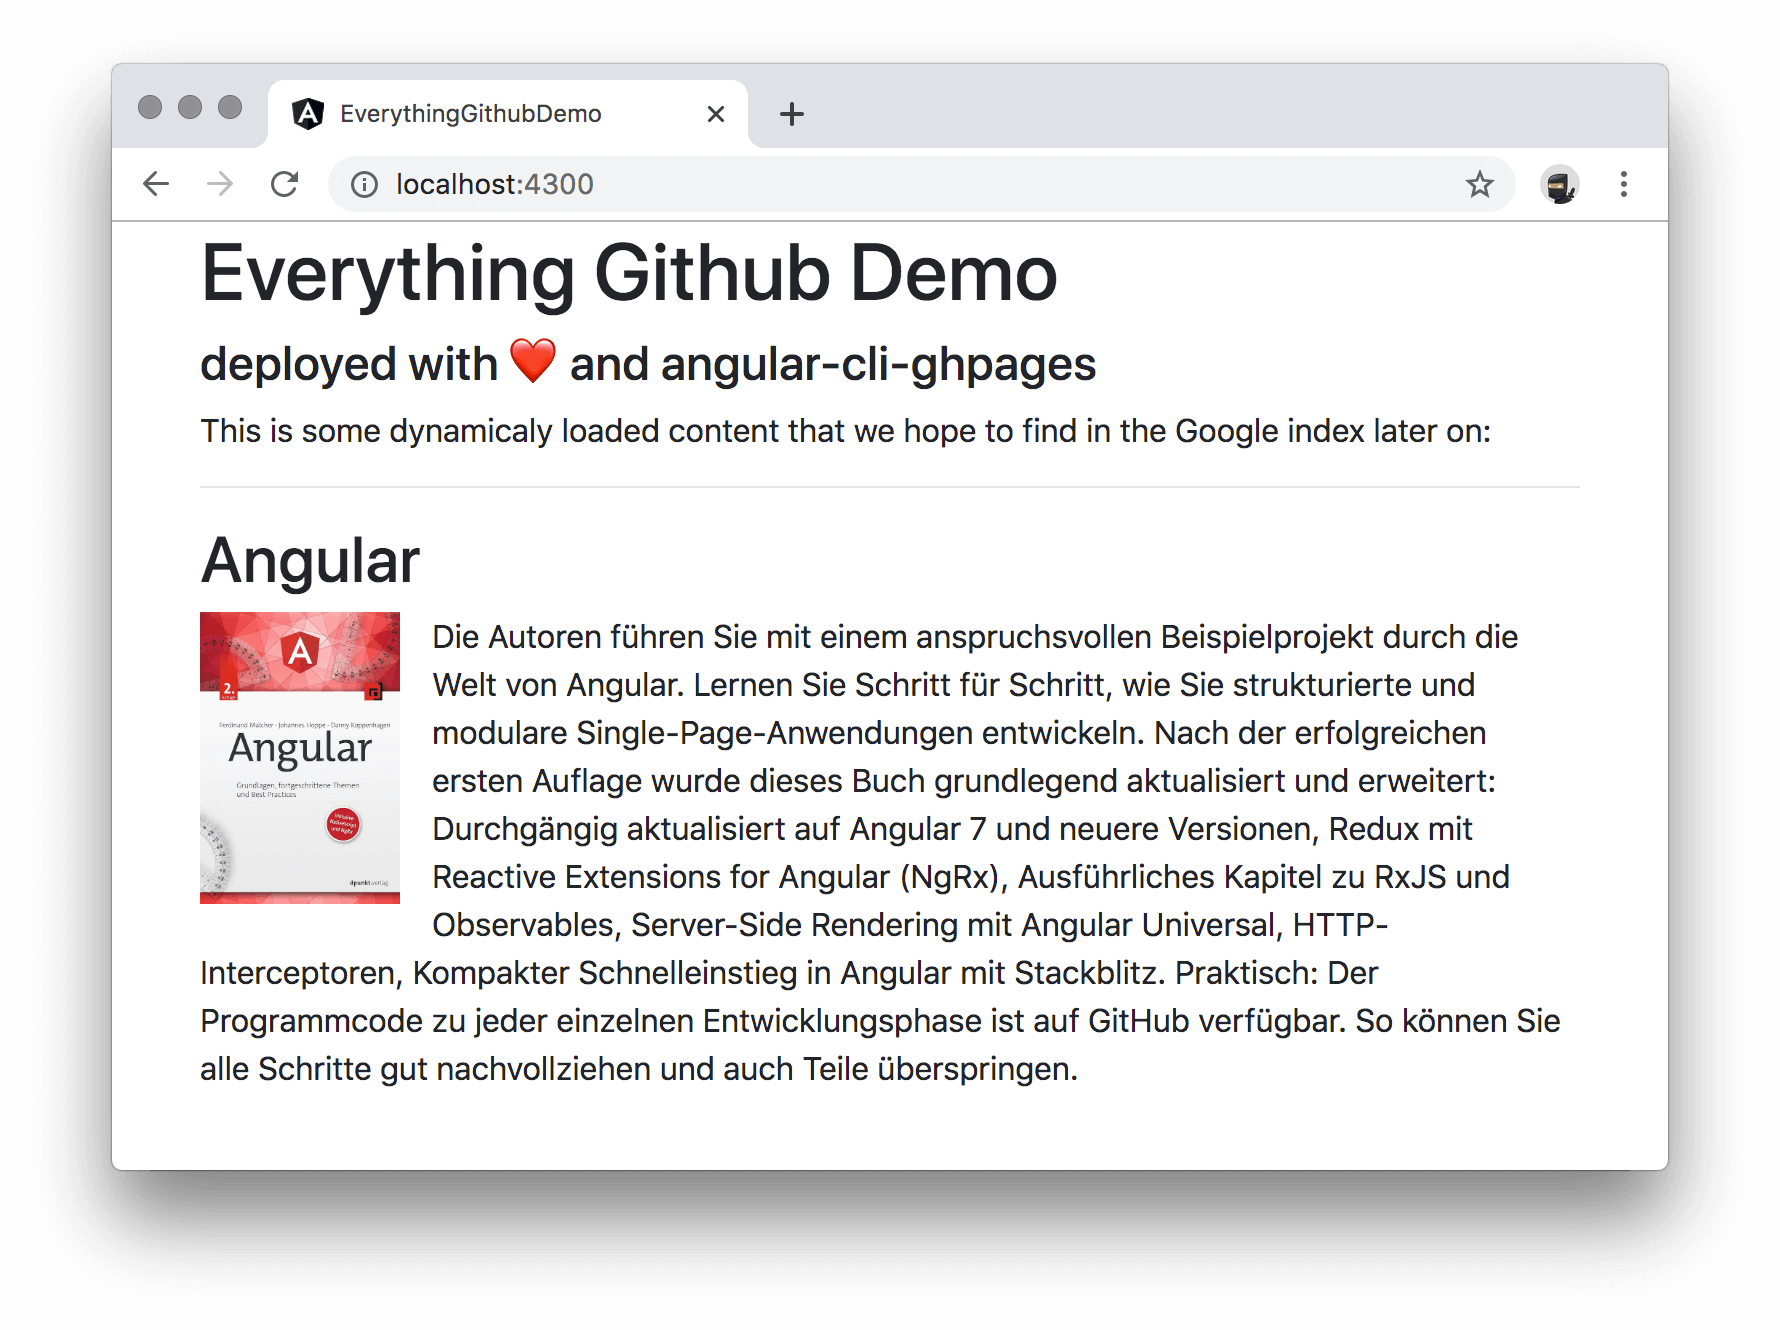
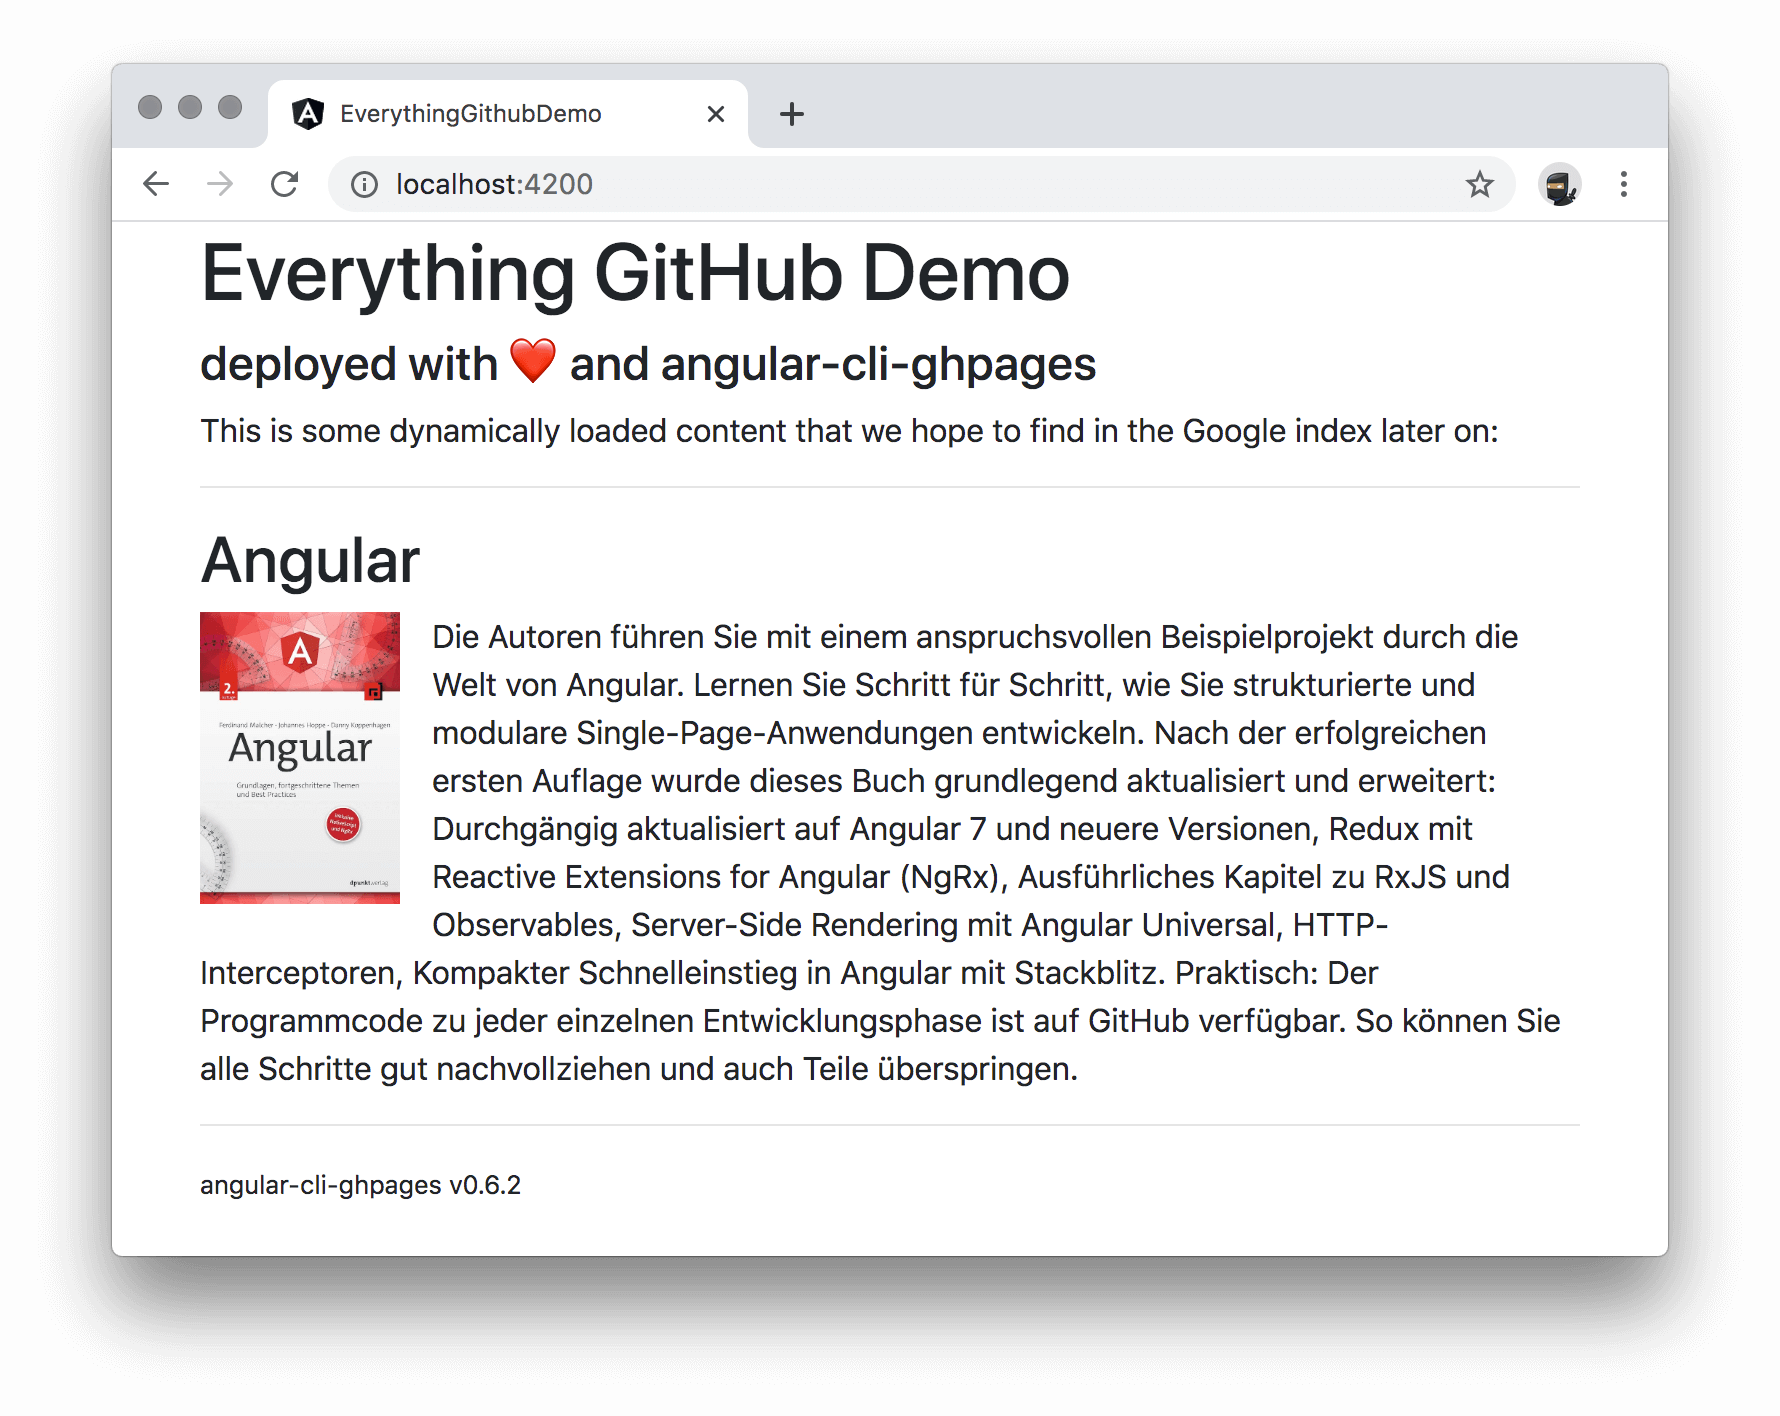
everything-github: typos

Changed region(s): [[0.0618, 0.3699, 0.927, 0.894], [0.0618, 0.0308, 0.8343, 0.3391], [0.4326, 0.0925, 0.927, 0.1541]]

diff --git a/blog/2020-01-everything-github/README.md b/blog/2020-01-everything-github/README.md
@@ -1,5 +1,5 @@
 ---
-title: "Everything Github: Continues Integration, Deployment and Hosting for your Angular App"
+title: "Everything GitHub: Continues Integration, Deployment and Hosting for your Angular App"
 author: Johannes Hoppe
 mail: johannes.hoppe@haushoppe-its.de
 bio: "Johannes is one of the two founders of the Angular.Schule and the main developer of angular-cli-ghpages. Recently he has been recognized as a Google Developer Expert (GDE)."
@@ -15,14 +15,14 @@ keywords:
   - ng deploy
   - ng-deploy
   - angular-cli-ghpages
-  - Github
-  - Github Actions
+  - GitHub
+  - GitHub Actions
 language: en
 thumbnail: everything-github.png
 hidden: true
 ---
 
-**In this article we want to use several tools from the Github universe to launch a website with Angular.
+**In this article we want to use several tools from the GitHub universe to launch a website with Angular.
 We will establish a professional pipeline, including version management, continuous deployment and web hosting.
 Best of all, for public repositories, this won't cost you a single cent!**
 
@@ -32,19 +32,19 @@ Table of contents:
 
 - [Introduction](#introduction)
 - [1. All parts explained](#1-all-parts-explained)
-  - [1.1. Git and Github Version Control](#11-git-and-github-version-control)
-  - [1.2. Github Actions](#12-github-actions)
-  - [1.3. Github Pages](#13-github-pages)
+  - [1.1. Git and GitHub Version Control](#11-git-and-github-version-control)
+  - [1.2. GitHub Actions](#12-github-actions)
+  - [1.3. GitHub Pages](#13-github-pages)
   - [1.4. angular-cli-ghpages](#14-angular-cli-ghpages)
   - [1.5. GitHub plans](#15-github-plans)
 - [2. A simple Angular app](#2-a-simple-angular-app)
-- [3. Hosting the source code on Github](#3-hosting-the-source-code-on-github)
+- [3. Hosting the source code on GitHub](#3-hosting-the-source-code-on-github)
 - [4. A first deployment to GitHub Pages](#4-a-first-deployment-to-github-pages)
 - [5. Automating the Deployment with GitHub Actions](#5-automating-the-deployment-with-github-actions)
   - [5.1 About all tokens](#51-about-all-tokens)
   - [5.2 Automate a public repo (via GH_TOKEN)](#52-automate-a-public-repo-via-ghtoken)
     - [5.2.1 Setup a Personal Access Token](#521-setup-a-personal-access-token)
-    - [5.2.2 Setup the Github Action Workflow](#522-setup-the-github-action-workflow)
+    - [5.2.2 Setup the GitHub Action Workflow](#522-setup-the-github-action-workflow)
   - [5.3 Automate a private repo (via GITHUB_TOKEN)](#53-automate-a-private-repo-via-githubtoken)
 - [6. Extra: Custom Domains](#6-extra-custom-domains)
   - [6.1 Configuring a subdomain](#61-configuring-a-subdomain)
@@ -54,27 +54,27 @@ Table of contents:
 ## Introduction
 
 All starts are hard, so we will try to explain all steps in detail, so that you can eventually come up with a fully deployed Angular app.
-During our journey we will get comfortable with `angular-cli-ghpages` and Github Actions, and see how they work togehter.
-We will create & setup tokens and Github Action YAML files, to deploy our Angular app directly to Github Pages, a free webhosting service from Github.
+During our journey we will get comfortable with `angular-cli-ghpages` and GitHub Actions, and see how they work together.
+We will create & setup tokens and GitHub Action YAML files, to deploy our Angular app directly to GitHub Pages, a free webhosting service from GitHub.
 
 
 ## 1. All parts explained
 
-### 1.1. Git and Github Version Control
+### 1.1. Git and GitHub Version Control
 
 Version Control allows you to keep track of your work and helps you to easily recognize the changes you have made, whether it is program code, text, images or other data.
 It is also absolutely necessary if you want to work together efficiently in a team.
 [Git](https://git-scm.com/) is a free software for distributed version management and is currently the most popular solution.
-The leading platform around Git is Github, which belongs to Microsoft since the end of 2018.
+The leading platform around Git is GitHub, which belongs to Microsoft since the end of 2018.
 
-### 1.2. Github Actions
+### 1.2. GitHub Actions
 
-[Github Actions](https://github.com/features/actions) is a solution for CI/CD pipelines (continuous integration and continuous delivery).
-With actions we can test, build and release our code and while staying in the Github ecosystem.
-Github has just recently launched this product to the market and is now directly competing with Travis CI, CircleCI or AppVeyor.
+[GitHub Actions](https://github.com/features/actions) is a solution for CI/CD pipelines (continuous integration and continuous delivery).
+With actions we can test, build and release our code and while staying in the GitHub ecosystem.
+GitHub has just recently launched this product to the market and is now directly competing with Travis CI, CircleCI or AppVeyor.
 In contrast to former CI/CD monsters it is common with all mentioned providers to express the individual steps in the form of a YAML file and to store this file as part of the source code in the repository.
     
-### 1.3. Github Pages
+### 1.3. GitHub Pages
 
 You can use [GitHub Pages](https://pages.github.com/) to host a website directly from a GitHub repository.
 This website can either contain completely static content (i.e. pure HTML files and assets, but no scripts running on the server) or you can use Jekyll to convert Markdown files to static content.
@@ -84,10 +84,10 @@ A good companion is the static site generator [Scully](https://github.com/scully
 ### 1.4. angular-cli-ghpages
 
 [angular-cli-ghpages](https://github.com/angular-schule/angular-cli-ghpages) is a project made by Johannes Hoppe, one of the two authors of this article.
-His Angular Book uses a new Github repository in every chapter (so there are quite a lot of repos 😅).
-So he developed a solution that makes it as easy as possible to bring an Angular App to Github Pages.
+His Angular Book uses a new GitHub repository in every chapter (so there are quite a lot of repos 😅).
+So he developed a solution that makes it as easy as possible to bring an Angular App to GitHub Pages.
 The project exists since 2016 and if it was started today, it would certainly have a nicer name.
-According to Github, 7000 projects already deploying with angular-cli-ghpages.
+According to GitHub, 7000 projects already deploying with angular-cli-ghpages.
 
 ### 1.5. GitHub plans
 
@@ -195,11 +195,11 @@ We assume that the majority of our readers have already worked with Angular. But
     ```html
     <!-- src/app/app.component.html -->
   
-    <h1>Everything Github Demo</h1>
+    <h1>Everything GitHub Demo</h1>
     <h4>deployed with ❤ and angular-cli-ghpages</h4>
   
     <p>
-    This is some dynamicaly loaded content that we hope to find in the Google index later on:
+    This is some dynamically loaded content that we hope to find in the Google index later on:
     </p>
   
     <hr>
@@ -217,7 +217,7 @@ We assume that the majority of our readers have already worked with Angular. But
 
 
 
-## 3. Hosting the source code on Github
+## 3. Hosting the source code on GitHub
 
 Now we take care of version management.
 This is very easy because the Angular CLI has already created a local Git repository for us. 
@@ -242,14 +242,14 @@ This is very easy because the Angular CLI has already created a local Git reposi
   
     <!-- > There's one naughty little trick to work around that limitation, but we'll talk about that later on. -->
 
-5. Since we already have source code, you should **not** initialize the repository with a a README.
+5. Since we already have source code, you should **not** initialize the repository with a README.
 
     ![Screenshot](screenshot_3_repo-public.png)
 
 6. After you have pressed "Create Repository" a confirmation page will appear.
     You can now connect to GitHub using SSH or HTTPS.
     Both ways will work, but GitHub recommends [HTTPS](https://help.github.com/en/github/using-git/which-remote-url-should-i-use).
-    If you are completely lost in authenticating against GitHub, try cloning another repository with [Github Desktop](https://desktop.github.com/) first.
+    If you are completely lost in authenticating against GitHub, try cloning another repository with [GitHub Desktop](https://desktop.github.com/) first.
     For the remaining article we assume that the communication has been successful established.
 
     To add a new remote for GitHub, use the `git remote add` command:
@@ -261,7 +261,7 @@ This is very easy because the Angular CLI has already created a local Git reposi
     Replace `<username>` (or organisation name) and `<repositoryname>` with your username from GitHub and the name of your new repository.
     <small>(In our example, it's `git remote add origin https://github.com/angular-schule/everything-github-demo.git`)</small>
 
-7. Finally we can transfer the whole repository to GitHub:
+7. Finally, we can transfer the whole repository to GitHub:
 
   ```sh
   git push -u origin master
@@ -321,7 +321,7 @@ GitHub will activate the hosting automatically, if this branch has the name `gh-
     **Hint:** Please make sure that you are really adding the trailing the slash.
     If you forget it, it won't work!
 
-5. And now you should see our app running on Github Pages!
+5. And now you should see our app running on GitHub Pages!
     You can make sure that everything went well when you go into the **Settings** of the repo.
     Scroll down there to the GitHub Pages section.
     The following should appear here:
@@ -344,7 +344,7 @@ GitHub will activate the hosting automatically, if this branch has the name `gh-
 But we don't want to stop here and trigger the deployment manually all the time.
 We want to make changes to the app and the deployment should be handled automatically for us.
 For this we want to use GitHub Actions.
-GitHub Actions is now available for all repsitories.
+GitHub Actions is now available for all repositories.
 So there is no need to register anymore, we can start right now! 🚀
 
 As with all CI/CD systems, we have to think about how to grant the necessary write permissions to our repo.
@@ -354,12 +354,12 @@ As with all CI/CD systems, we have to think about how to grant the necessary wri
 
 The easiest way to grant access to the repository is to implement this with tokens.
 Tokens can be used instead of a password for Git over HTTPS (*this is what we want to do*),
-or can be used to authenticate to the Github API (*angular-cli-ghpages is right now not using the Github API at all*).
+or can be used to authenticate to the GitHub API (*angular-cli-ghpages is right now not using the GitHub API at all*).
 
 > **⚠ Warning:** Treat tokens like passwords and keep them secret. Always use tokens as environment variables instead of hardcoding them into your code!
 
 
-At Github there are several types of tokens, which we have to carefully distinguish.
+At GitHub there are several types of tokens, which we have to carefully distinguish.
 The following two are relevant for us:
 
 * **`GH_TOKEN` / Personal access token** – As the name suggests, personal access tokens grant rights that a particular user has.
@@ -422,13 +422,13 @@ If you want to remember the token later on, save it in a secure place only (i.e.
     Please make sure that it has this access:
    ![repo access](./screenshot_5_repo-access.png)
 
-2. Open up your Angular app's Github repo.
+2. Open up your Angular app's GitHub repo.
 
 3. Go to **Settings** > **Secrets** and click on **Add a new secret**.
 
     ![add new secret](./screenshot_5_add-new-secret.png)
 
-    Secrets are encrypted environment variables and only exposed to selected Github Actions.
+    Secrets are encrypted environment variables and only exposed to selected GitHub Actions.
     GitHub automatically redacts secrets printed to the log, but you should avoid printing secrets to the log intentionally.
 
 4. Create a secret with name `GH_TOKEN` and paste your token (which you copied in step 1) in value.
@@ -440,7 +440,7 @@ If you want to remember the token later on, save it in a secure place only (i.e.
     It is perfectly fine not to store the token anywhere else.
     You can always create new tokens and just throw the old ones away.
 
-#### 5.2.2 Setup the Github Action Workflow
+#### 5.2.2 Setup the GitHub Action Workflow
 
 Now we have everything ready.
 We can create an automated workflow that will do the work for us in the future.
@@ -487,12 +487,12 @@ GitHub Actions usage is free for public repositories.
     ```
 3. Fortunately, the step `actions/checkout@v2` checks-out a nice git repository, where the remote `origin` is already adjusted.
     But username and email are not set.
-    Therefore we have to include these two values via parameters.
+    Therefore, we have to include these two values via parameters.
     Make sure to replace **"Displayed Username"** (e.g. "I am a bot") and **your.mail@example.org** with meaningful values in the above example.
     At this place you do not have to specify any real name and mail.
     But you don't want to overdo it, because the provided values later will be shown in the git history.
 
-4. If you want Github Actions to perform unit tests and end-to-end tests, you will need to make some small additional configurations in your Angular app.
+4. If you want GitHub Actions to perform unit tests and end-to-end tests, you will need to make some small additional configurations in your Angular app.
     The necessary changes are described in the [Angular CLI wiki](https://github.com/angular/angular-cli/wiki/stories-continuous-integration#continuous-integration).
     To be precise:
 
@@ -534,19 +534,19 @@ GitHub Actions usage is free for public repositories.
 
 4.  **Done!** 🚀.  
 
-This action will run by itself the first time and each time when you push your changes to Github.
+This action will run by itself the first time and each time when you push your changes to GitHub.
 
 
 ### 5.3 Automate a private repo (via `GITHUB_TOKEN`)
 
 The following example is additional,
 because we have promised for this article that you do not have to pay a cent.
-As already said, the usage of a private repos with Github Actions and Github Pages is only possible from the pro plan and higher.
+As already said, the usage of a private repos with GitHub Actions and GitHub Pages is only possible from the pro plan and higher.
 However, the big advantage is that we do not have to spend some time and effort to set up a token.
 The `GITHUB_TOKEN` is already there and we do not need to bother with it at all.
 
-Behind the scenes, Github reuses an existing feature, that is known as GitHub apps.
-In contrast to programms that authenticate with a "personal access token",
+Behind the scenes, GitHub reuses an existing feature, that is known as GitHub apps.
+In contrast to programs that authenticate with a "personal access token",
 apps do not run on behalf of a specific user - which is great.
 To make this happen, GitHub automatically installs a GitHub App on the repository and makes a corresponding "installation access token" with the name `GITHUB_TOKEN` available as a secret. 
 GitHub fetches a new token for each job, before the job begins.
@@ -635,7 +635,7 @@ In our example our app should be accessible under the domain `everything-github-
     You can make the necessary changes in the repository settings.
     Go to **Settings** > GitHub Pages and select **Enforce HTTPS**, to enable HTTPS encryption for your site:
 
-    ![Screenshot HTTPS Github](./screenshot_6_https-github.png)
+    ![Screenshot HTTPS GitHub](./screenshot_6_https-github.png)
 
     It can take up to 24 hours before this option is available.
     As soon as the change is applied, you can now surf the website via HTTPS:  
@@ -687,7 +687,7 @@ We need to use the same `--cname` parameter as described before, but we have to 
 <!-- ## Summary / What's next? -->
 ## Summary
 
-We hope you had fun with this tutorial and that your **Angular App** now builds automatically via **GitHub Actions** and that it runs successfully on **Github Pages**. If you have any questions, please contact us via twitter. We are also very happy to receive your suggestion for improvement as a PR.
+We hope you had fun with this tutorial and that your **Angular App** now builds automatically via **GitHub Actions** and that it runs successfully on **GitHub Pages**. If you have any questions, please contact us via twitter. We are also very happy to receive your suggestion for improvement as a PR.
 
 You can check out the complete demo code here:  
 **☞ https://github.com/angular-schule/everything-github-demo/**
@@ -695,7 +695,7 @@ You can check out the complete demo code here:
 <!-- **⚠ Stop!   
 Before you start browsing the web any further:  
 Or journey is not over yet!
-Please checkout this [follow-up article from Danny about the static site generator Scully](https://d-koppenhagen.de/blog/2020-01-angular-scully), which is a perfect fit for Angular on Github Pages.** -->
+Please checkout this [follow-up article from Danny about the static site generator Scully](https://d-koppenhagen.de/blog/2020-01-angular-scully), which is a perfect fit for Angular on GitHub Pages.** -->
 
 <hr>
 
